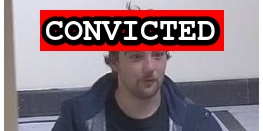
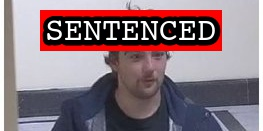
Latest sentencing

Changed region(s): [[0.1521, 0.0611, 0.8821, 0.3969]]

diff --git a/docs/_suspects/mitchell-vukich.md b/docs/_suspects/mitchell-vukich.md
@@ -4,16 +4,16 @@ lastName: Vukich
 hashtag: MitchellVukich
 aka:
 residence: Pennsylvania
-status: Convicted
+status: Sentenced
 date: 2021-06-23
 charged: 2021-06-23
 indicted:
 convicted: 2021-09-15
-sentenced:
+sentenced: 2022-01-05
 dismissed:
 deceased:
 plea_hearing: 2021-09-15
-sentencing: 2021-12-03
+sentencing: 2022-01-05
 age:
 occupation:
 affiliations:
@@ -34,12 +34,15 @@ published: true
 caseNumber: 1:21-mj-476
 videos:
 charges:
-- code: 18 USC § 5104(e)(2)(G)
-  title: Parading, Demonstrating or Picketing in a Capitol Building
-  url: https://www.law.cornell.edu/uscode/text/40/5104
-  felony: false
+  - code: 18 USC § 5104(e)(2)(G)
+    title: Parading, Demonstrating or Picketing in a Capitol Building
+    url: https://www.law.cornell.edu/uscode/text/40/5104
+    felony: false
 sentence:
+  - 30 days in prison
+  - $500 restitution
 ---
+
 - [News Report](https://triblive.com/local/westmoreland/3-more-western-pa-residents-including-scottdale-man-charged-in-capitol-riots/)
 - [Statement of Facts](https://www.justice.gov/usao-dc/case-multi-defendant/file/1433346/download)
 - [Information](https://www.justice.gov/usao-dc/case-multi-defendant/file/1433326/download)

diff --git a/docs/_suspects/nicholas-perretta.md b/docs/_suspects/nicholas-perretta.md
@@ -4,16 +4,16 @@ lastName: Perretta
 hashtag: NicholasPerretta
 aka:
 residence: Pennsylvania
-status: Convicted
+status: Sentenced
 date: 2021-06-23
 charged: 2021-06-23
 indicted:
 convicted: 2021-09-15
-sentenced:
+sentenced: 2022-01-05
 dismissed:
 deceased:
 plea_hearing: 2021-09-15
-sentencing: 2021-12-03
+sentencing: 2022-01-05
 age:
 occupation:
 affiliations:
@@ -34,12 +34,15 @@ published: true
 caseNumber:
 videos:
 charges:
-- code: 18 USC § 5104(e)(2)(G)
-  title: Parading, Demonstrating or Picketing in a Capitol Building
-  url: https://www.law.cornell.edu/uscode/text/40/5104
-  felony: false
+  - code: 18 USC § 5104(e)(2)(G)
+    title: Parading, Demonstrating or Picketing in a Capitol Building
+    url: https://www.law.cornell.edu/uscode/text/40/5104
+    felony: false
 sentence:
+  - 30 days in prison
+  - $500 restitution
 ---
+
 - [News Report](https://triblive.com/local/westmoreland/3-more-western-pa-residents-including-scottdale-man-charged-in-capitol-riots/)
 - [Statement of Facts](https://www.justice.gov/usao-dc/case-multi-defendant/file/1433336/download)
 - [Information](https://www.justice.gov/usao-dc/case-multi-defendant/file/1433326/download)
